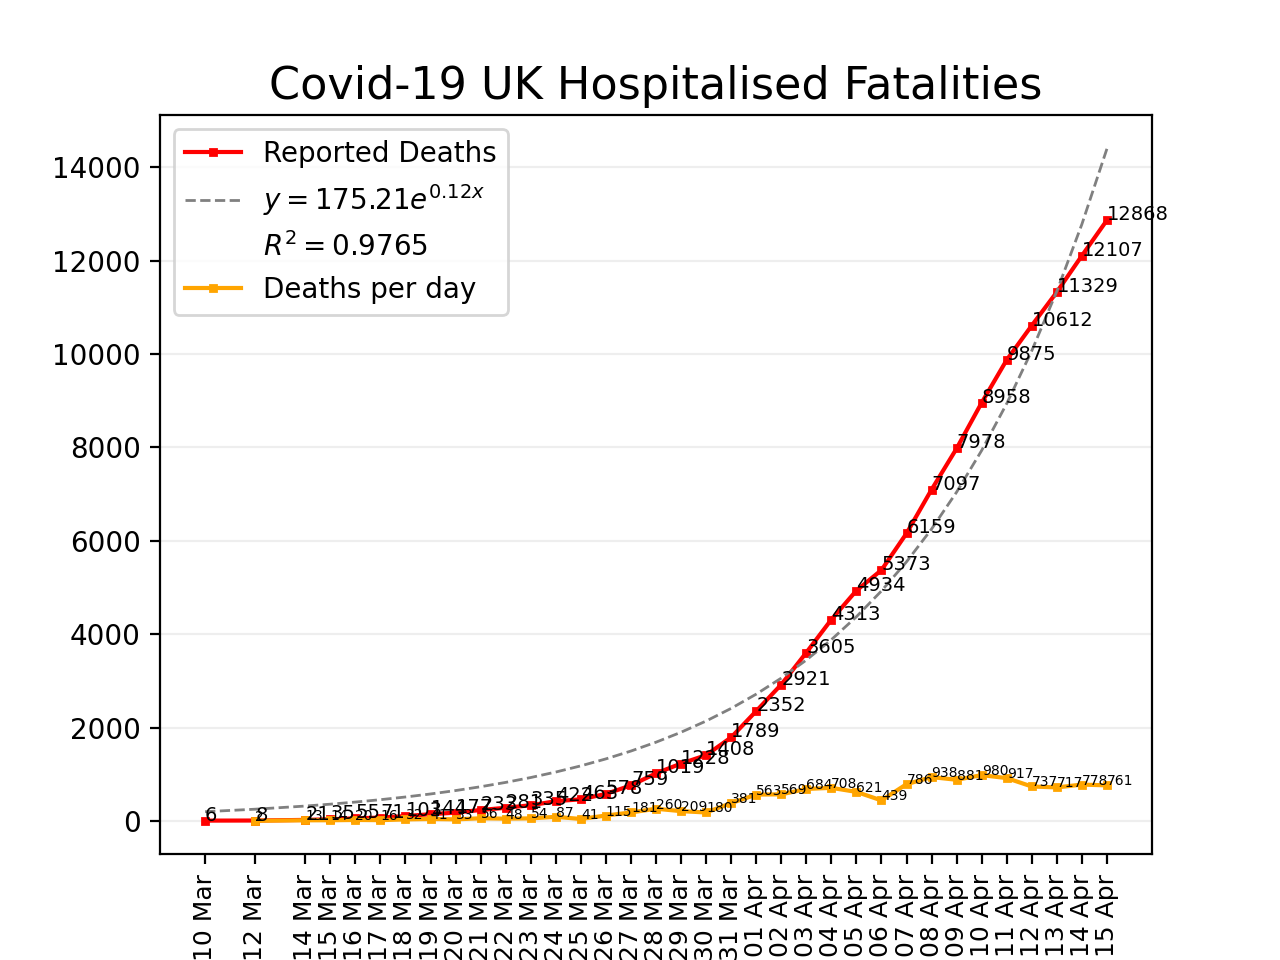
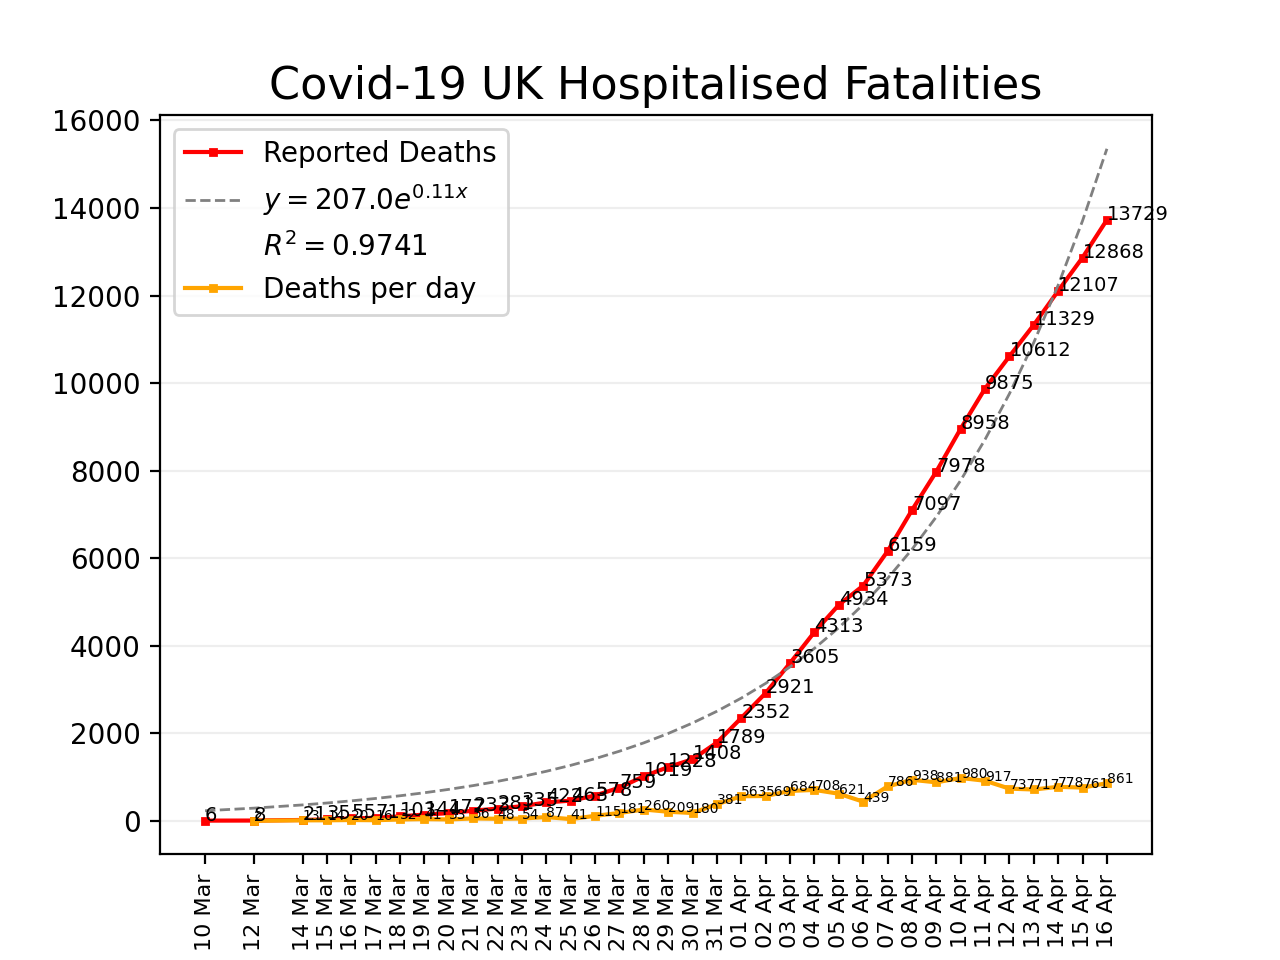
Adds data for 16 April

diff --git a/plot.py b/plot.py
@@ -8,7 +8,7 @@ y = np.array([
     6, 8, 21, 35, 55, 71, 103, 144, 177, 233,
     281, 335, 422, 463, 578, 759, 1019, 1228, 1408, 1789,
     2352, 2921, 3605, 4313, 4934, 5373, 6159, 7097, 7978, 8958,
-    9875, 10612, 11329, 12107, 12868
+    9875, 10612, 11329, 12107, 12868, 13729
 ])
 
 x = np.array([
@@ -16,7 +16,7 @@ x = np.array([
     1, 3, 5, 6, 7, 8, 9, 10, 11, 12,
     13, 14, 15, 16, 17, 18, 19, 20, 21, 22,
     23, 24, 25, 26, 27, 28, 29, 30, 31, 32,
-    33, 34, 35, 36, 37
+    33, 34, 35, 36, 37, 38
 ])
 
 labels = [
@@ -26,7 +26,7 @@ labels = [
     '24 Mar', '25 Mar', '26 Mar', '27 Mar', '28 Mar', '29 Mar',
     '30 Mar', '31 Mar', '01 Apr', '02 Apr', '03 Apr', '04 Apr',
     '05 Apr', '06 Apr', '07 Apr', '08 Apr', '09 Apr', '10 Apr',
-    '11 Apr', '12 Apr', '13 Apr', '14 Apr', '15 Apr'
+    '11 Apr', '12 Apr', '13 Apr', '14 Apr', '15 Apr', '16 Apr'
 ]
 
 x_diffs = x[1:]
@@ -95,7 +95,7 @@ for a, b in zip(x_diffs, diffs):
     plt.text(a, b, str(b), fontsize=5, color='black')
 
 plt.grid(axis='y', which='major', color='#eeeeee', linestyle='-')
-plt.xticks(x, labels, rotation='vertical', fontsize='9')
+plt.xticks(x, labels, rotation='vertical', fontsize='8')
 plt.legend(loc='upper left')
 plt.savefig('latest', dpi=200)
 plt.show()
